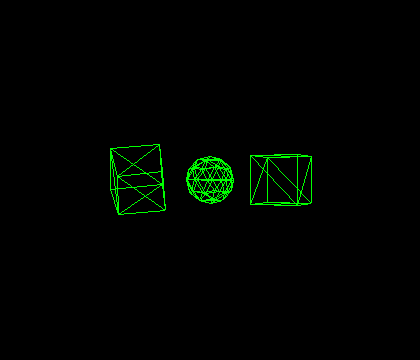
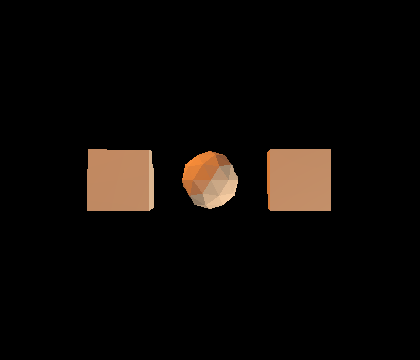
fucking shadows! I have fucking shadows!  I added an occlusion ray to the light. Turns out I intentionally broke my ray plane func because I already had everything in camera space. I pulled that transform to generalize things. And added shader acne offset.

Changed region(s): [[0.4333, 0.3972, 0.8048, 0.6111], [0.1857, 0.3972, 0.4024, 0.6111]]

diff --git a/src/ray_tracing/pixel_shader.rs b/src/ray_tracing/pixel_shader.rs
@@ -1,6 +1,8 @@
 use crate::color::colorspace_conversion::spectra_to_display;
 use crate::geometry::primitives::{polygon, ray, vector, Ray, Vector};
-use crate::lighting::{black_spectra, Light, LightType, RadiometricUnit, Spectra};
+use crate::lighting::{
+    black_spectra, monochroma_spectra, Light, LightType, RadiometricUnit, Spectra,
+};
 use crate::material::{ShaderNode, PBR};
 use crate::object::{Object, OBJECT};
 use crate::ray_tracing::ray_polygon_intersection::{
@@ -134,10 +136,10 @@ pub fn lit_shader(x: u32, y: u32, scene: &Scene) -> Rgb<u8> {
         None => black_spectra(RadiometricUnit::Flux),
         Some((object, x, ω_o, normal)) => {
             let output = compute_light(scene, object, x, ω_o, normal);
-            let flux = (scene.camera.sensor._pixel_area() * output).set_unit(RadiometricUnit::Flux);
-            scene.camera.exposure_time * flux
+            scene.camera.exposure_time * scene.camera.sensor._pixel_area() * output
         }
     };
+
     return spectra_to_display(&output);
 }
 
@@ -149,17 +151,38 @@ pub fn compute_light(
     normal: Vector,
 ) -> Spectra {
     let mut output = black_spectra(RadiometricUnit::Flux);
-    for light in scene.lights.clone() {
+    'lights: for light in scene.lights.clone() {
         // our job here is to find the amount of energy transmitted to the pixel from the light
-        let value = match light {
-            LightType::PointLight(value) => value,
+        let light = match light {
+            LightType::PointLight(light) => light,
         };
-        let to_light = &intersection_point.clone().to(value.position);
+        let to_light = &intersection_point.clone().to(light.position);
+
+        let occlusion_ray = ray(intersection_point, to_light.clone());
+        // if (occlusion_ray.position.x < 3.) {
+        //     println!("{:?}", occlusion_ray);
+        // }
+
+        for objects in scene.objects.iter() {
+            if objects.ray_intercept(&occlusion_ray) {
+                let occlusion = shoot_ray(occlusion_ray.clone(), &scene);
+                if occlusion.is_some() {
+                    // continue
+                    output = output +  black_spectra(RadiometricUnit::Flux);
+                    continue 'lights
+                    // return monochroma_spectra(700., 100., RadiometricUnit::Flux);
+                }
+                // else{
+                //     println!("{:?}",occlusion_ray);
+                // }
+            }
+        }
 
         let _distance_to_surface: f32 = direction.magnitude();
 
         // if the angle between the surface and light is obtuse, it's facing away
         if to_light.dot(&normal) < 0. {
+            // return monochroma_spectra(550., 1., RadiometricUnit::Flux)
             continue;
         }
 
@@ -171,26 +194,25 @@ pub fn compute_light(
                 to_light,
                 &direction,
                 &normal,
-                value.radiant_intensity(intersection_point),
+                light.radiant_intensity(intersection_point),
             ),
             ShaderNode::Literal(spectra) => spectra.clone(),
         };
 
-        if radiance.total() > 0. {
-            output = output + radiance;
-        }
+        output = output + radiance;
     }
     output
 }
 
 pub fn shoot_ray(ray: Ray, scene: &Scene) -> Option<(Object, Vector, Vector, Vector)> {
     let mut hit = false;
-    let mut closest: f32 = 1e6;
+    let mut closest_dist: f32 = 1e6;
     let mut closest_object: &Object = &OBJECT;
     let mut surface_normal: Vector;
     surface_normal = vector(1., 1., 1.);
     // here we're at once per pixel
     for object in &scene.objects {
+        
         // this is once per object
         if scene.spatial_acceleration_structures && !object.ray_intercept(&ray) {
             continue;
@@ -203,9 +225,9 @@ pub fn shoot_ray(ray: Ray, scene: &Scene) -> Option<(Object, Vector, Vector, Vec
                 let c = mesh.output_vertices[poly[2]].clone();
                 let polygon = polygon(a, b, c);
                 let (b, _i, dist) = probe_ray_polygon_intersection(&ray, &polygon);
-                if b && dist < closest {
+                if b && dist < closest_dist {
                     closest_object = object;
-                    closest = dist;
+                    closest_dist = dist;
                     hit = true;
                     surface_normal = polygon.get_normal();
                     if surface_normal.dot(&ray.direction) > 0. {
@@ -222,8 +244,14 @@ pub fn shoot_ray(ray: Ray, scene: &Scene) -> Option<(Object, Vector, Vector, Vec
     if hit {
         let mut direction: Vector = ray.direction.clone();
         direction.norm();
-        direction = closest * direction; // explicitly not a unit vector
-        let intersection_point: Vector = (direction.clone()) + ray.position;
+        direction = closest_dist * direction; // explicitly not a unit vector
+        let mut intersection_point: Vector = (direction.clone()) + ray.position;
+
+        // to prevent shader acne
+        let mut offset = surface_normal.clone();
+        offset.norm();
+        offset = 1e-5 * offset;
+        intersection_point = intersection_point + offset;
 
         return Some((
             closest_object.clone(),

diff --git a/src/ray_tracing/ray_polygon_intersection.rs b/src/ray_tracing/ray_polygon_intersection.rs
@@ -17,7 +17,7 @@ pub fn _ray_polygon_intersection_test(ray: &Ray, polygon: &Polygon) -> bool {
 /// returns whether it intersects, the ray, and the distance
 #[allow(non_snake_case)]
 pub fn probe_ray_polygon_intersection(ray: &Ray, polygon: &Polygon) -> (bool, Vector, f32) {
-    // println!("{:?}\n\n\n",polygon);
+
     // first, if the ray is parallel to the plane the polygon lies in, they do not intersect
     // you can also discard backfacing normals
 
@@ -137,9 +137,11 @@ fn project_vector(a: &Vector, b: &Vector) -> Vector {
 
 #[allow(non_snake_case)]
 fn ray_plane_intersection(ray: &Ray, polygon: &Polygon) -> Option<(Vector, f32)> {
-    let ray = &ray.direction;
+    let ray_origin = &ray.position;
+    let ray: &Vector = &ray.direction;
+
     // ray_origin = np.array([0, 0, 0])
-    let ray_origin = vector(0., 0., 0.);
+    // let ray_origin = vector(0., 0., 0.);
     // N = normal_of_polygon(points)
     let N = polygon.get_normal();
 
@@ -164,6 +166,8 @@ fn ray_plane_intersection(ray: &Ray, polygon: &Polygon) -> Option<(Vector, f32)>
     //     # print('the plane normal and ray are at right angles, no intersection is possible')
     //     return np.array([0., 0., 0.])
     // C = points[0]  # any point that lies on the shared plane
+
+    // C is defined as a point that lies on the plane
     let C: Vector = polygon.a.as_vector();
     // V = ray
     let V = &ray;
@@ -176,7 +180,7 @@ fn ray_plane_intersection(ray: &Ray, polygon: &Polygon) -> Option<(Vector, f32)>
     // # if the ray is a unit vector it is the distance from ray_origin to the intersection
 
     // I = ray_origin + k * V
-    let I = V.times(k);
+    let I = *ray_origin + V.times(k);
     // # print(f'k: {k}')
     // if k < 0:
     //     return np.array([0., 0., 0.])  # ray is facing away from plaen
@@ -197,6 +201,13 @@ fn ray_plane_intersection(ray: &Ray, polygon: &Polygon) -> Option<(Vector, f32)>
 
 #[cfg(test)]
 mod tests {
+    use crate::{
+        geometry::{
+            orientation::_UP,
+            primitives::{polygon, ray, vector, vertex, Polygon, Ray},
+        },
+        ray_tracing::ray_polygon_intersection::probe_ray_polygon_intersection,
+    };
 
     /// useful table: https://www.nikonians.org/reviews/fov-tables
     #[test]
@@ -207,5 +218,44 @@ mod tests {
 
         // polygon(a, b, c)
         assert_eq!(1, 1); //
+    }
+
+    #[test]
+    fn ray_polygon_test_simple_polygon() {
+        let polygon = polygon(
+            vertex(2.0, 0.0, -2.0),
+            vertex(0.0, 2.0, -2.0),
+            vertex(0.0, 0.0, -2.0),
+        );
+        let ray = ray(vector(1.0, 1.0, 0.), vector(0., 0.0, -1.0));
+        println!("{:?}", polygon.get_normal());
+        println!("{:?}", probe_ray_polygon_intersection(&ray, &polygon));
+        assert!(probe_ray_polygon_intersection(&ray, &polygon).0);
+    }
+    #[test]
+    fn ray_polygon_another_polygon() {
+        let polygon = polygon(
+            vertex(-4.0, -1.0, -0.0),
+            vertex(-4.0, 1.0, -2.0),
+            vertex(-4.0, 1.0, -0.0),
+        );
+        let ray = ray(vector(0.0, 0.5, -1.), vector(-50., 0.0, 0.0));
+        println!("{:?}", polygon.get_normal());
+        println!("{:?}", probe_ray_polygon_intersection(&ray, &polygon));
+        assert!(probe_ray_polygon_intersection(&ray, &polygon).0);
+    }
+    #[test]
+    fn ray_polygon_test_polygon() {
+        let polygon = polygon(
+            vertex(-1.0, -1.0, -1.0),
+            vertex(-1.0, 1.0, -3.0),
+            vertex(-1.0, 1.0, -1.0),
+        );
+        let ray = ray(vector(0.0, 0.5, -2.), vector(-50., 0.0, 0.0));
+        println!("ray position: {:?}", ray.position);
+        println!("ray direction: {:?}", ray.direction);
+        println!("normal: {:?}", polygon.get_normal());
+        println!("intersection result: {:?}", probe_ray_polygon_intersection(&ray, &polygon));
+        assert!(probe_ray_polygon_intersection(&ray, &polygon).0);
     }
 }

diff --git a/src/geometry_pipeline.rs b/src/geometry_pipeline.rs
@@ -139,8 +139,8 @@ fn apply_transforms(scene: &mut Scene) {
             // for mesh in scene.meshes.iter_mut() {
             let to_world_space = build_translation_transform(object.position.clone());
             mesh.add_transform(to_world_space);
-            let to_camera_space = build_camera_space_transform(&scene.camera);
-            mesh.add_transform(to_camera_space);
+            // let to_camera_space = build_camera_space_transform(&scene.camera);
+            // mesh.add_transform(to_camera_space);
 
             mesh.apply_transformations();
         }

diff --git a/src/object.rs b/src/object.rs
@@ -8,7 +8,7 @@ use crate::{
 };
 
 /// physical object in space with associated data
-#[derive(Clone)]
+#[derive(Clone, Debug)]
 pub struct Object {
     pub position: Vector,
     pub _orientation: Orientation,

diff --git a/working_notes.md b/working_notes.md
@@ -24,3 +24,8 @@ The material class needs to encapsulate any sort of material response, from perf
 another task:
 how do we track watts that land on our image sensor?
 with an isotrophic light source directly shining into it, we can estimate the solid angle of the photosite with respect to the source to integrate away the steridians, but what about a bounce?
+
+
+The polygons are in camera space!
+That's why they're double offset!
+And also why the functions are broken if not used from the same angle
